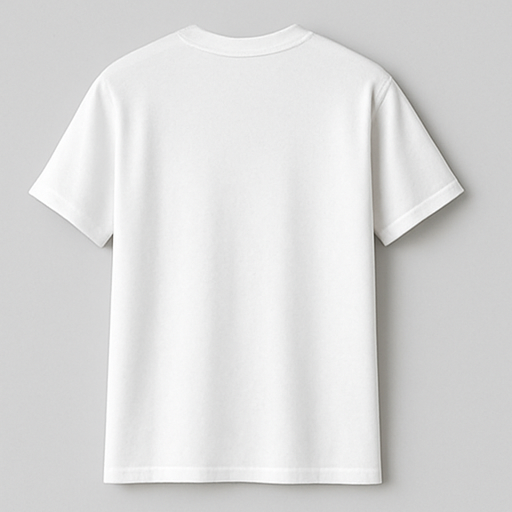
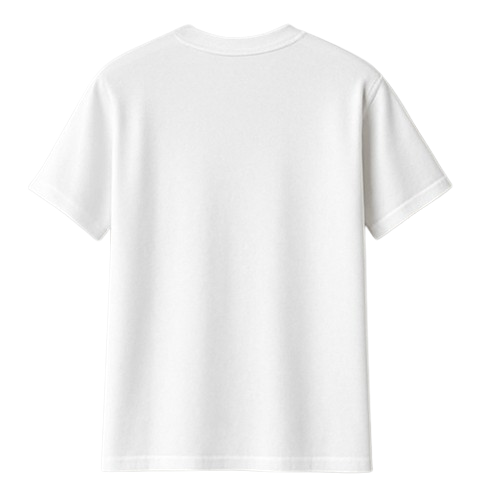
add more colors on customization

diff --git a/src/components/pages/CustomizeHTML.tsx b/src/components/pages/CustomizeHTML.tsx
@@ -52,7 +52,7 @@ const colorOptions = [
   { 
     id: 'black', 
     label: 'Negro', 
-    value: '#000000', 
+    value: '#1A1A1A', 
     textPreview: '#FFFFFF',
     priceModifier: 0 // Sin costo adicional
   },
@@ -66,8 +66,22 @@ const colorOptions = [
   { 
     id: 'blue', 
     label: 'Azul', 
-    value: '#0000FF', 
+    value: '#0047AB', 
     textPreview: '#FFFFFF',
+    priceModifier: 500 // 500 pesos adicionales
+  },
+  { 
+    id: 'navy', 
+    label: 'Azul Marino', 
+    value: '#000080', 
+    textPreview: '#FFFFFF',
+    priceModifier: 500 // 500 pesos adicionales
+  },
+  { 
+    id: 'lightblue', 
+    label: 'Azul Claro', 
+    value: '#ADD8E6', 
+    textPreview: '#000000',
     priceModifier: 500 // 500 pesos adicionales
   },
   { 
@@ -75,6 +89,62 @@ const colorOptions = [
     label: 'Rojo', 
     value: '#FF0000', 
     textPreview: '#FFFFFF',
+    priceModifier: 500 // 500 pesos adicionales
+  },
+  { 
+    id: 'burgundy', 
+    label: 'Borgoña', 
+    value: '#800020', 
+    textPreview: '#FFFFFF',
+    priceModifier: 700 // 700 pesos adicionales
+  },
+  { 
+    id: 'pink', 
+    label: 'Rosa', 
+    value: '#FFC0CB', 
+    textPreview: '#000000',
+    priceModifier: 500 // 500 pesos adicionales
+  },
+  { 
+    id: 'green', 
+    label: 'Verde', 
+    value: '#008000', 
+    textPreview: '#FFFFFF',
+    priceModifier: 500 // 500 pesos adicionales
+  },
+  { 
+    id: 'olive', 
+    label: 'Verde Oliva', 
+    value: '#808000', 
+    textPreview: '#FFFFFF',
+    priceModifier: 700 // 700 pesos adicionales
+  },
+  { 
+    id: 'mint', 
+    label: 'Menta', 
+    value: '#98FF98', 
+    textPreview: '#000000',
+    priceModifier: 700 // 700 pesos adicionales
+  },
+  { 
+    id: 'purple', 
+    label: 'Púrpura', 
+    value: '#800080', 
+    textPreview: '#FFFFFF',
+    priceModifier: 700 // 700 pesos adicionales
+  },
+  { 
+    id: 'yellow', 
+    label: 'Amarillo', 
+    value: '#FFFF00', 
+    textPreview: '#000000',
+    priceModifier: 500 // 500 pesos adicionales
+  },
+  { 
+    id: 'orange', 
+    label: 'Naranja', 
+    value: '#FFA500', 
+    textPreview: '#000000',
     priceModifier: 500 // 500 pesos adicionales
   }
 ];
@@ -542,50 +612,39 @@ const CustomizeHTML = () => {
     setIsMounted(true);
   }, []);
   
-  // Obtener la ruta de la imagen de la polera según la vista y el color seleccionado
+  // Obtener la ruta de la imagen de la polera según la vista seleccionada y el color
   const getTshirtImagePath = () => {
-    // Obtener el color seleccionado
-    const selectedColor = formValues.color;
-    
-    // Mapeo de vistas para cada color
-    const colorViewMap: Record<string, Record<string, string>> = {
-      'white': {
-        'front': '/assets/products/white-tshirt/white-tshirt-frente.png',
-        'back': '/assets/products/white-tshirt/white-tshirt-espalda.png',
-        'left': '/assets/products/white-tshirt/white-tshirt-izquierda.png',
-        'right': '/assets/products/white-tshirt/white-tshirt-derecha.png'
-      },
-      'black': {
+    // Si el color seleccionado es negro, usar la imagen de polera negra
+    if (formValues.color === 'black') {
+      // Mapeo de vistas para la polera negra
+      const blackTshirtViewMap: Record<string, string> = {
         'front': '/assets/products/black-tshirt/black-tshirt-frente.png',
         'back': '/assets/products/black-tshirt/black-tshirt-espalda.png',
         'left': '/assets/products/black-tshirt/black-tshirt-izquierda.png',
         'right': '/assets/products/black-tshirt/black-tshirt-derecha.png'
-      },
-      'gray': {
-        'front': '/assets/products/gray-tshirt/gray-tshirt-frente.png',
-        'back': '/assets/products/gray-tshirt/gray-tshirt-espalda.png',
-        'left': '/assets/products/gray-tshirt/gray-tshirt-izquierda.png',
-        'right': '/assets/products/gray-tshirt/gray-tshirt-derecha.png'
-      },
-      'blue': {
-        'front': '/assets/products/blue-tshirt/blue-tshirt-frente.png',
-        'back': '/assets/products/blue-tshirt/blue-tshirt-espalda.png',
-        'left': '/assets/products/blue-tshirt/blue-tshirt-izquierda.png',
-        'right': '/assets/products/blue-tshirt/blue-tshirt-derecha.png'
-      },
-      'red': {
-        'front': '/assets/products/red-tshirt/red-tshirt-frente.png',
-        'back': '/assets/products/red-tshirt/red-tshirt-espalda.png',
-        'left': '/assets/products/red-tshirt/red-tshirt-izquierda.png',
-        'right': '/assets/products/red-tshirt/red-tshirt-derecha.png'
-      }
-    };
+      };
+      
+      return blackTshirtViewMap[formValues.view] || blackTshirtViewMap['front'];
+    } else {
+      // Para otros colores, usar la polera blanca como base para la coloración
+      const whiteTshirtViewMap: Record<string, string> = {
+        'front': '/assets/products/white-tshirt/white-tshirt-frente.png',
+        'back': '/assets/products/white-tshirt/white-tshirt-espalda.png',
+        'left': '/assets/products/white-tshirt/white-tshirt-izquierda.png',
+        'right': '/assets/products/white-tshirt/white-tshirt-derecha.png'
+      };
+      
+      return whiteTshirtViewMap[formValues.view] || whiteTshirtViewMap['front'];
+    }
+  };
+  
+  // Obtener el valor hexadecimal del color seleccionado
+  const getSelectedColorHex = () => {
+    // Buscar el color seleccionado en las opciones de colores
+    const selectedColor = colorOptions.find(color => color.id === formValues.color);
     
-    // Obtener el mapa de vistas para el color seleccionado o usar blanco como fallback
-    const viewMap = colorViewMap[selectedColor] || colorViewMap['white'];
-    
-    // Retornar la ruta de la imagen según la vista seleccionada
-    return viewMap[formValues.view] || viewMap['front'];
+    // Retornar el valor hexadecimal del color o blanco por defecto
+    return selectedColor?.value || '#FFFFFF';
   };
   
   if (!isMounted) {
@@ -651,6 +710,8 @@ const CustomizeHTML = () => {
                       <HTMLCanvasV2
                         ref={frontCanvasRef}
                         tshirtImage={getTshirtImagePath()}
+                        tshirtColor={getSelectedColorHex()}
+                        useColorization={formValues.color !== 'white'}
                         customImage={currentViewData.image}
                         customText={currentViewData.text || ''}
                         textColor={currentViewData.textColor}
@@ -672,6 +733,8 @@ const CustomizeHTML = () => {
                       <HTMLCanvasV2
                         ref={backCanvasRef}
                         tshirtImage={getTshirtImagePath()}
+                        tshirtColor={getSelectedColorHex()}
+                        useColorization={formValues.color !== 'white'}
                         customImage={currentViewData.image}
                         customText={currentViewData.text || ''}
                         textColor={currentViewData.textColor}
@@ -693,6 +756,8 @@ const CustomizeHTML = () => {
                       <HTMLCanvasV2
                         ref={leftCanvasRef}
                         tshirtImage={getTshirtImagePath()}
+                        tshirtColor={getSelectedColorHex()}
+                        useColorization={formValues.color !== 'white'}
                         customImage={currentViewData.image}
                         customText={currentViewData.text || ''}
                         textColor={currentViewData.textColor}
@@ -714,6 +779,8 @@ const CustomizeHTML = () => {
                       <HTMLCanvasV2
                         ref={rightCanvasRef}
                         tshirtImage={getTshirtImagePath()}
+                        tshirtColor={getSelectedColorHex()}
+                        useColorization={formValues.color !== 'white'}
                         customImage={currentViewData.image}
                         customText={currentViewData.text || ''}
                         textColor={currentViewData.textColor}

diff --git a/src/components/commons/molecules/HTMLCanvasV2.tsx b/src/components/commons/molecules/HTMLCanvasV2.tsx
@@ -9,6 +9,7 @@ export interface HTMLCanvasHandle {
 
 interface HTMLCanvasProps {
   tshirtImage: string;
+  tshirtColor?: string; // Color para aplicar a la polera
   customImage?: string | null;
   customText?: string;
   textColor?: string;
@@ -24,6 +25,7 @@ interface HTMLCanvasProps {
   onUpdateImagePosition?: (x: number, y: number) => void;
   onUpdateTextSize?: (size: number) => void;
   onUpdateImageSize?: (width: number, height: number) => void;
+  useColorization?: boolean; // Indica si se debe usar la coloración dinámica
 }
 
 interface Position {
@@ -42,6 +44,8 @@ const HANDLE_POSITIONS = ['nw', 'ne', 'se', 'sw', 'n', 's', 'e', 'w'];
 
 const HTMLCanvasV2 = forwardRef<HTMLCanvasHandle, HTMLCanvasProps>(({ 
   tshirtImage,
+  tshirtColor = '#FFFFFF',
+  useColorization = false,
   customImage,
   customText = '',
   textColor = '#000000',
@@ -149,6 +153,7 @@ const HTMLCanvasV2 = forwardRef<HTMLCanvasHandle, HTMLCanvasProps>(({
     return null;
   }, [userImg, imagePosition, imageSize]);
 
+  // Efecto para dibujar en el canvas
   // Función para dibujar en el canvas
   const drawCanvas = useCallback(() => {
     const canvas = canvasRef.current;
@@ -162,7 +167,62 @@ const HTMLCanvasV2 = forwardRef<HTMLCanvasHandle, HTMLCanvasProps>(({
     
     // Dibujar la imagen de la polera
     if (tshirtImg) {
-      ctx.drawImage(tshirtImg, 0, 0, canvas.width, canvas.height);
+      // Verificar si es una imagen de polera negra (contiene 'black-tshirt' en la ruta)
+      const isBlackTshirt = tshirtImg.src.includes('black-tshirt');
+      
+      // Si no es una polera negra y se debe colorizar
+      if (!isBlackTshirt && useColorization && tshirtColor !== '#FFFFFF') {
+        // Crear un canvas temporal para la coloración
+        const tempCanvas = document.createElement('canvas');
+        tempCanvas.width = canvas.width;
+        tempCanvas.height = canvas.height;
+        const tempCtx = tempCanvas.getContext('2d');
+        
+        if (tempCtx) {
+          // Dibujar la imagen base en el canvas temporal
+          tempCtx.drawImage(tshirtImg, 0, 0, canvas.width, canvas.height);
+          
+          // Obtener los datos de la imagen
+          const imageData = tempCtx.getImageData(0, 0, canvas.width, canvas.height);
+          const data = imageData.data;
+          
+          // Convertir el color hex a RGB
+          const hexToRgb = (hex: string) => {
+            const r = parseInt(hex.slice(1, 3), 16);
+            const g = parseInt(hex.slice(3, 5), 16);
+            const b = parseInt(hex.slice(5, 7), 16);
+            return { r, g, b };
+          };
+          
+          const targetColor = hexToRgb(tshirtColor);
+          
+          // Colorear solo los píxeles no transparentes (la polera)
+          for (let i = 0; i < data.length; i += 4) {
+            // Si el píxel no es completamente transparente (es parte de la polera)
+            if (data[i + 3] > 0) {
+              // Obtener la luminosidad del píxel original (escala de grises)
+              const brightness = (data[i] * 0.299 + data[i + 1] * 0.587 + data[i + 2] * 0.114) / 255;
+              
+              // Aplicar el color manteniendo las sombras y luces de la imagen original
+              data[i] = Math.floor(targetColor.r * brightness);
+              data[i + 1] = Math.floor(targetColor.g * brightness);
+              data[i + 2] = Math.floor(targetColor.b * brightness);
+            }
+          }
+          
+          // Poner los datos modificados de vuelta en el canvas temporal
+          tempCtx.putImageData(imageData, 0, 0);
+          
+          // Dibujar el canvas temporal en el canvas principal
+          ctx.drawImage(tempCanvas, 0, 0);
+        } else {
+          // Si no se puede crear el contexto temporal, usar el método anterior
+          ctx.drawImage(tshirtImg, 0, 0, canvas.width, canvas.height);
+        }
+      } else {
+        // Si es una polera negra o no se usa colorización, simplemente dibujar la imagen de la polera
+        ctx.drawImage(tshirtImg, 0, 0, canvas.width, canvas.height);
+      }
     }
     
     // Dibujar la imagen personalizada
@@ -259,7 +319,7 @@ const HTMLCanvasV2 = forwardRef<HTMLCanvasHandle, HTMLCanvasProps>(({
       
       ctx.restore();
     }
-  }, [tshirtImg, userImg, customText, textColor, textFont, textSize, textPosition, imagePosition, imageSize, isDragging, isResizing, dragTarget]);
+  }, [tshirtImg, tshirtColor, useColorization, userImg, imagePosition, imageSize, textPosition, textSize, textFont, textColor, customText, isDragging, dragTarget, isResizing]);
 
   // Función para manejar el movimiento del mouse
   const handleMouseMove = useCallback((e: React.MouseEvent<HTMLCanvasElement>) => {
@@ -528,6 +588,8 @@ const HTMLCanvasV2 = forwardRef<HTMLCanvasHandle, HTMLCanvasProps>(({
       };
     }
     
+    // No se requiere máscara para la coloración simplificada
+    
     if (customImage) {
       const img = new Image();
       img.src = customImage;
@@ -537,7 +599,7 @@ const HTMLCanvasV2 = forwardRef<HTMLCanvasHandle, HTMLCanvasProps>(({
     } else {
       setUserImg(null);
     }
-  }, [tshirtImage, customImage]);
+  }, [tshirtImage, customImage, useColorization]);
   
   // Actualizar posiciones y tamaños cuando cambian las props
   useEffect(() => {
